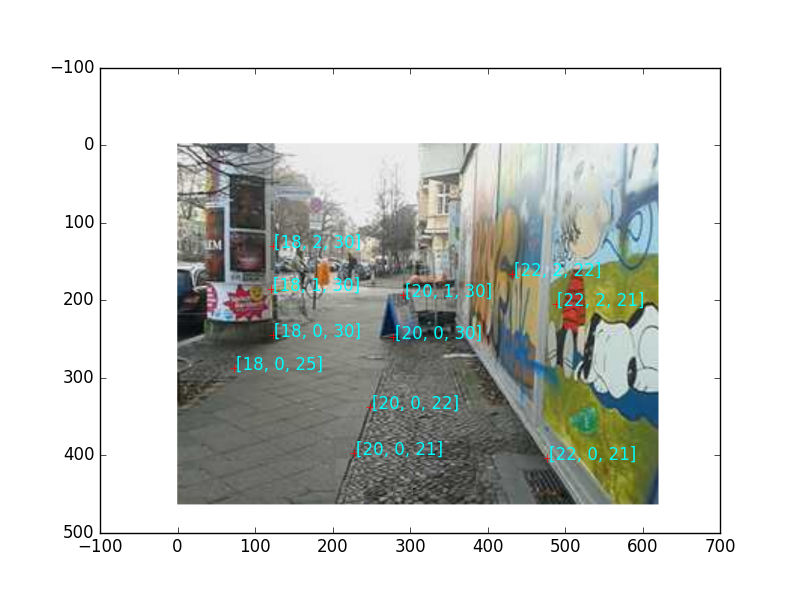
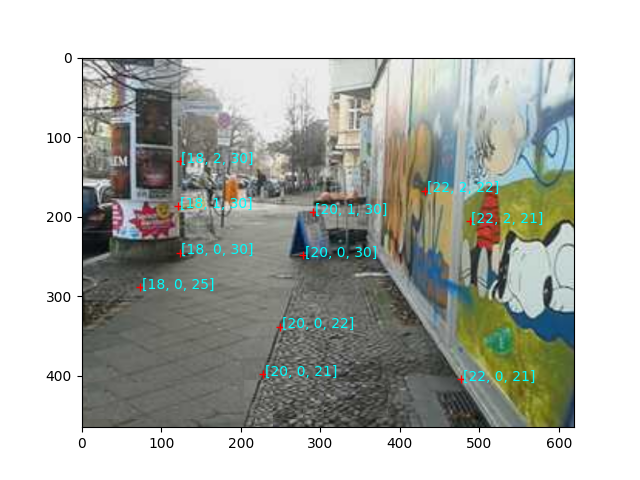
-

diff --git a/vision/vision_05p/vision_05p.html b/vision/vision_05p/vision_05p.html
@@ -239,7 +239,7 @@ class="sourceCode python"><code class="sourceCode python"><span id="cb2-1"><a hr
 <span id="cb2-11"><a href="#cb2-11" aria-hidden="true" tabindex="-1"></a>        M[<span class="dv">3</span><span class="op">*</span>i<span class="op">+</span><span class="dv">1</span>,<span class="dv">4</span>:<span class="dv">8</span>] <span class="op">=</span> X[:,i]</span>
 <span id="cb2-12"><a href="#cb2-12" aria-hidden="true" tabindex="-1"></a>        M[<span class="dv">3</span><span class="op">*</span>i<span class="op">+</span><span class="dv">2</span>,<span class="dv">8</span>:<span class="dv">12</span>] <span class="op">=</span> X[:,i]</span>
 <span id="cb2-13"><a href="#cb2-13" aria-hidden="true" tabindex="-1"></a>        M[<span class="dv">3</span><span class="op">*</span>i:<span class="dv">3</span><span class="op">*</span>i<span class="op">+</span><span class="dv">3</span>,i<span class="op">+</span><span class="dv">12</span>] <span class="op">=</span> <span class="op">-</span>x[:,i]</span>
-<span id="cb2-14"><a href="#cb2-14" aria-hidden="true" tabindex="-1"></a>    <span class="bu">print</span> M.shape</span>
+<span id="cb2-14"><a href="#cb2-14" aria-hidden="true" tabindex="-1"></a>    <span class="bu">print</span> (M.shape)</span>
 <span id="cb2-15"><a href="#cb2-15" aria-hidden="true" tabindex="-1"></a>    U,S,V <span class="op">=</span> linalg.svd(M)</span>
 <span id="cb2-16"><a href="#cb2-16" aria-hidden="true" tabindex="-1"></a>    </span>
 <span id="cb2-17"><a href="#cb2-17" aria-hidden="true" tabindex="-1"></a>    <span class="cf">return</span> V[<span class="op">-</span><span class="dv">1</span>,:<span class="dv">12</span>].reshape((<span class="dv">3</span>,<span class="dv">4</span>))</span>
@@ -253,7 +253,7 @@ class="sourceCode python"><code class="sourceCode python"><span id="cb2-1"><a hr
 <span id="cb2-25"><a href="#cb2-25" aria-hidden="true" tabindex="-1"></a>XX <span class="op">=</span> np.hstack((XX,np.ones((<span class="bu">len</span>(X),<span class="dv">1</span>))))</span>
 <span id="cb2-26"><a href="#cb2-26" aria-hidden="true" tabindex="-1"></a></span>
 <span id="cb2-27"><a href="#cb2-27" aria-hidden="true" tabindex="-1"></a>P <span class="op">=</span> compute_P(xx.T,XX.T)</span>
-<span id="cb2-28"><a href="#cb2-28" aria-hidden="true" tabindex="-1"></a><span class="bu">print</span> P</span></code></pre></div>
+<span id="cb2-28"><a href="#cb2-28" aria-hidden="true" tabindex="-1"></a><span class="bu">print</span> (P)</span></code></pre></div>
 <pre><code>(33, 23)
 [[ -4.01225744e-02   5.31972373e-03  -1.06308256e-02   9.71131258e-01]
  [ -9.79700368e-04  -2.64464969e-02  -1.09893337e-02   2.33086445e-01]
@@ -273,22 +273,18 @@ class="sourceCode python"><code class="sourceCode python"><span id="cb4-1"><a hr
 <span id="cb4-7"><a href="#cb4-7" aria-hidden="true" tabindex="-1"></a>plt.imshow(im)</span>
 <span id="cb4-8"><a href="#cb4-8" aria-hidden="true" tabindex="-1"></a></span>
 <span id="cb4-9"><a href="#cb4-9" aria-hidden="true" tabindex="-1"></a><span class="cf">for</span> xx <span class="kw">in</span> X3.T: </span>
-<span id="cb4-10"><a href="#cb4-10" aria-hidden="true" tabindex="-1"></a>    plt.hold(<span class="va">True</span>)</span>
-<span id="cb4-11"><a href="#cb4-11" aria-hidden="true" tabindex="-1"></a>    <span class="cf">if</span> xx[<span class="dv">0</span>] <span class="op">&gt;</span> w <span class="kw">or</span> xx[<span class="dv">0</span>] <span class="op">&lt;</span> <span class="dv">0</span>: <span class="cf">continue</span></span>
-<span id="cb4-12"><a href="#cb4-12" aria-hidden="true" tabindex="-1"></a>    <span class="cf">if</span> xx[<span class="dv">1</span>] <span class="op">&gt;</span> h <span class="kw">or</span> xx[<span class="dv">1</span>] <span class="op">&lt;</span> <span class="dv">0</span>: <span class="cf">continue</span></span>
-<span id="cb4-13"><a href="#cb4-13" aria-hidden="true" tabindex="-1"></a>    plt.plot(xx[<span class="dv">0</span>],h<span class="op">-</span>xx[<span class="dv">1</span>],<span class="st">&#39;r.&#39;</span>)</span>
-<span id="cb4-14"><a href="#cb4-14" aria-hidden="true" tabindex="-1"></a></span>
-<span id="cb4-15"><a href="#cb4-15" aria-hidden="true" tabindex="-1"></a>plt.hold(<span class="va">True</span>)</span>
-<span id="cb4-16"><a href="#cb4-16" aria-hidden="true" tabindex="-1"></a></span>
-<span id="cb4-17"><a href="#cb4-17" aria-hidden="true" tabindex="-1"></a>X3 <span class="op">=</span> np.dot(P, res2.T)</span>
-<span id="cb4-18"><a href="#cb4-18" aria-hidden="true" tabindex="-1"></a>X3 <span class="op">=</span> X3 <span class="op">/</span> X3[<span class="dv">2</span>]</span>
-<span id="cb4-19"><a href="#cb4-19" aria-hidden="true" tabindex="-1"></a><span class="cf">for</span> xx <span class="kw">in</span> X3.T: </span>
-<span id="cb4-20"><a href="#cb4-20" aria-hidden="true" tabindex="-1"></a>    plt.hold(<span class="va">True</span>)</span>
-<span id="cb4-21"><a href="#cb4-21" aria-hidden="true" tabindex="-1"></a>    <span class="cf">if</span> xx[<span class="dv">0</span>] <span class="op">&gt;</span> w <span class="kw">or</span> xx[<span class="dv">0</span>] <span class="op">&lt;</span> <span class="dv">0</span>: <span class="cf">continue</span></span>
-<span id="cb4-22"><a href="#cb4-22" aria-hidden="true" tabindex="-1"></a>    <span class="cf">if</span> xx[<span class="dv">1</span>] <span class="op">&gt;</span> h <span class="kw">or</span> xx[<span class="dv">1</span>] <span class="op">&lt;</span> <span class="dv">0</span>: <span class="cf">continue</span></span>
-<span id="cb4-23"><a href="#cb4-23" aria-hidden="true" tabindex="-1"></a>    plt.plot(xx[<span class="dv">0</span>],h<span class="op">-</span>xx[<span class="dv">1</span>],<span class="st">&#39;r.&#39;</span>)</span>
-<span id="cb4-24"><a href="#cb4-24" aria-hidden="true" tabindex="-1"></a></span>
-<span id="cb4-25"><a href="#cb4-25" aria-hidden="true" tabindex="-1"></a>plt.savefig(<span class="st">&#39;out-cam4.png&#39;</span>)</span></code></pre></div>
+<span id="cb4-10"><a href="#cb4-10" aria-hidden="true" tabindex="-1"></a>    <span class="cf">if</span> xx[<span class="dv">0</span>] <span class="op">&gt;</span> w <span class="kw">or</span> xx[<span class="dv">0</span>] <span class="op">&lt;</span> <span class="dv">0</span>: <span class="cf">continue</span></span>
+<span id="cb4-11"><a href="#cb4-11" aria-hidden="true" tabindex="-1"></a>    <span class="cf">if</span> xx[<span class="dv">1</span>] <span class="op">&gt;</span> h <span class="kw">or</span> xx[<span class="dv">1</span>] <span class="op">&lt;</span> <span class="dv">0</span>: <span class="cf">continue</span></span>
+<span id="cb4-12"><a href="#cb4-12" aria-hidden="true" tabindex="-1"></a>    plt.plot(xx[<span class="dv">0</span>],h<span class="op">-</span>xx[<span class="dv">1</span>],<span class="st">&#39;r.&#39;</span>)</span>
+<span id="cb4-13"><a href="#cb4-13" aria-hidden="true" tabindex="-1"></a></span>
+<span id="cb4-14"><a href="#cb4-14" aria-hidden="true" tabindex="-1"></a>X3 <span class="op">=</span> np.dot(P, res2.T)</span>
+<span id="cb4-15"><a href="#cb4-15" aria-hidden="true" tabindex="-1"></a>X3 <span class="op">=</span> X3 <span class="op">/</span> X3[<span class="dv">2</span>]</span>
+<span id="cb4-16"><a href="#cb4-16" aria-hidden="true" tabindex="-1"></a><span class="cf">for</span> xx <span class="kw">in</span> X3.T: </span>
+<span id="cb4-17"><a href="#cb4-17" aria-hidden="true" tabindex="-1"></a>    <span class="cf">if</span> xx[<span class="dv">0</span>] <span class="op">&gt;</span> w <span class="kw">or</span> xx[<span class="dv">0</span>] <span class="op">&lt;</span> <span class="dv">0</span>: <span class="cf">continue</span></span>
+<span id="cb4-18"><a href="#cb4-18" aria-hidden="true" tabindex="-1"></a>    <span class="cf">if</span> xx[<span class="dv">1</span>] <span class="op">&gt;</span> h <span class="kw">or</span> xx[<span class="dv">1</span>] <span class="op">&lt;</span> <span class="dv">0</span>: <span class="cf">continue</span></span>
+<span id="cb4-19"><a href="#cb4-19" aria-hidden="true" tabindex="-1"></a>    plt.plot(xx[<span class="dv">0</span>],h<span class="op">-</span>xx[<span class="dv">1</span>],<span class="st">&#39;r.&#39;</span>)</span>
+<span id="cb4-20"><a href="#cb4-20" aria-hidden="true" tabindex="-1"></a></span>
+<span id="cb4-21"><a href="#cb4-21" aria-hidden="true" tabindex="-1"></a>plt.savefig(<span class="st">&#39;out-cam4.png&#39;</span>)</span></code></pre></div>
 <p><img src="out-cam4.png" /></p>
 <p><span class="math inline">\(R,T\)</span> Hesabı</p>
 <p>Bilinen <span class="math inline">\(P\)</span> ve <span
@@ -351,9 +347,9 @@ class="sourceCode python"><code class="sourceCode python"><span id="cb5-1"><a hr
 <span id="cb5-4"><a href="#cb5-4" aria-hidden="true" tabindex="-1"></a>K <span class="op">=</span> np.dot(K,T)</span>
 <span id="cb5-5"><a href="#cb5-5" aria-hidden="true" tabindex="-1"></a>R <span class="op">=</span> np.dot(T,R) </span>
 <span id="cb5-6"><a href="#cb5-6" aria-hidden="true" tabindex="-1"></a>t <span class="op">=</span> np.dot(linalg.inv(K),P[:,<span class="dv">3</span>])</span>
-<span id="cb5-7"><a href="#cb5-7" aria-hidden="true" tabindex="-1"></a><span class="bu">print</span> K</span>
-<span id="cb5-8"><a href="#cb5-8" aria-hidden="true" tabindex="-1"></a><span class="bu">print</span> R</span>
-<span id="cb5-9"><a href="#cb5-9" aria-hidden="true" tabindex="-1"></a><span class="bu">print</span> t</span></code></pre></div>
+<span id="cb5-7"><a href="#cb5-7" aria-hidden="true" tabindex="-1"></a><span class="bu">print</span> (K)</span>
+<span id="cb5-8"><a href="#cb5-8" aria-hidden="true" tabindex="-1"></a><span class="bu">print</span> (R)</span>
+<span id="cb5-9"><a href="#cb5-9" aria-hidden="true" tabindex="-1"></a><span class="bu">print</span> (t)</span></code></pre></div>
 <pre><code>[[  2.99407581e-02   5.97285792e-03   2.86183659e-02]
  [  0.00000000e+00  -2.79384510e-02   6.37066885e-03]
  [  0.00000000e+00   0.00000000e+00   3.89309986e-05]]

diff --git a/vision/vision_05p/yansitma_matrisini_bilinen_3d2d_eslemelerinden_hesaplamak.html b/vision/vision_05p/yansitma_matrisini_bilinen_3d2d_eslemelerinden_hesaplamak.html
@@ -239,7 +239,7 @@ class="sourceCode python"><code class="sourceCode python"><span id="cb2-1"><a hr
 <span id="cb2-11"><a href="#cb2-11" aria-hidden="true" tabindex="-1"></a>        M[<span class="dv">3</span><span class="op">*</span>i<span class="op">+</span><span class="dv">1</span>,<span class="dv">4</span>:<span class="dv">8</span>] <span class="op">=</span> X[:,i]</span>
 <span id="cb2-12"><a href="#cb2-12" aria-hidden="true" tabindex="-1"></a>        M[<span class="dv">3</span><span class="op">*</span>i<span class="op">+</span><span class="dv">2</span>,<span class="dv">8</span>:<span class="dv">12</span>] <span class="op">=</span> X[:,i]</span>
 <span id="cb2-13"><a href="#cb2-13" aria-hidden="true" tabindex="-1"></a>        M[<span class="dv">3</span><span class="op">*</span>i:<span class="dv">3</span><span class="op">*</span>i<span class="op">+</span><span class="dv">3</span>,i<span class="op">+</span><span class="dv">12</span>] <span class="op">=</span> <span class="op">-</span>x[:,i]</span>
-<span id="cb2-14"><a href="#cb2-14" aria-hidden="true" tabindex="-1"></a>    <span class="bu">print</span> M.shape</span>
+<span id="cb2-14"><a href="#cb2-14" aria-hidden="true" tabindex="-1"></a>    <span class="bu">print</span> (M.shape)</span>
 <span id="cb2-15"><a href="#cb2-15" aria-hidden="true" tabindex="-1"></a>    U,S,V <span class="op">=</span> linalg.svd(M)</span>
 <span id="cb2-16"><a href="#cb2-16" aria-hidden="true" tabindex="-1"></a>    </span>
 <span id="cb2-17"><a href="#cb2-17" aria-hidden="true" tabindex="-1"></a>    <span class="cf">return</span> V[<span class="op">-</span><span class="dv">1</span>,:<span class="dv">12</span>].reshape((<span class="dv">3</span>,<span class="dv">4</span>))</span>
@@ -253,7 +253,7 @@ class="sourceCode python"><code class="sourceCode python"><span id="cb2-1"><a hr
 <span id="cb2-25"><a href="#cb2-25" aria-hidden="true" tabindex="-1"></a>XX <span class="op">=</span> np.hstack((XX,np.ones((<span class="bu">len</span>(X),<span class="dv">1</span>))))</span>
 <span id="cb2-26"><a href="#cb2-26" aria-hidden="true" tabindex="-1"></a></span>
 <span id="cb2-27"><a href="#cb2-27" aria-hidden="true" tabindex="-1"></a>P <span class="op">=</span> compute_P(xx.T,XX.T)</span>
-<span id="cb2-28"><a href="#cb2-28" aria-hidden="true" tabindex="-1"></a><span class="bu">print</span> P</span></code></pre></div>
+<span id="cb2-28"><a href="#cb2-28" aria-hidden="true" tabindex="-1"></a><span class="bu">print</span> (P)</span></code></pre></div>
 <pre><code>(33, 23)
 [[ -4.01225744e-02   5.31972373e-03  -1.06308256e-02   9.71131258e-01]
  [ -9.79700368e-04  -2.64464969e-02  -1.09893337e-02   2.33086445e-01]
@@ -273,22 +273,18 @@ class="sourceCode python"><code class="sourceCode python"><span id="cb4-1"><a hr
 <span id="cb4-7"><a href="#cb4-7" aria-hidden="true" tabindex="-1"></a>plt.imshow(im)</span>
 <span id="cb4-8"><a href="#cb4-8" aria-hidden="true" tabindex="-1"></a></span>
 <span id="cb4-9"><a href="#cb4-9" aria-hidden="true" tabindex="-1"></a><span class="cf">for</span> xx <span class="kw">in</span> X3.T: </span>
-<span id="cb4-10"><a href="#cb4-10" aria-hidden="true" tabindex="-1"></a>    plt.hold(<span class="va">True</span>)</span>
-<span id="cb4-11"><a href="#cb4-11" aria-hidden="true" tabindex="-1"></a>    <span class="cf">if</span> xx[<span class="dv">0</span>] <span class="op">&gt;</span> w <span class="kw">or</span> xx[<span class="dv">0</span>] <span class="op">&lt;</span> <span class="dv">0</span>: <span class="cf">continue</span></span>
-<span id="cb4-12"><a href="#cb4-12" aria-hidden="true" tabindex="-1"></a>    <span class="cf">if</span> xx[<span class="dv">1</span>] <span class="op">&gt;</span> h <span class="kw">or</span> xx[<span class="dv">1</span>] <span class="op">&lt;</span> <span class="dv">0</span>: <span class="cf">continue</span></span>
-<span id="cb4-13"><a href="#cb4-13" aria-hidden="true" tabindex="-1"></a>    plt.plot(xx[<span class="dv">0</span>],h<span class="op">-</span>xx[<span class="dv">1</span>],<span class="st">&#39;r.&#39;</span>)</span>
-<span id="cb4-14"><a href="#cb4-14" aria-hidden="true" tabindex="-1"></a></span>
-<span id="cb4-15"><a href="#cb4-15" aria-hidden="true" tabindex="-1"></a>plt.hold(<span class="va">True</span>)</span>
-<span id="cb4-16"><a href="#cb4-16" aria-hidden="true" tabindex="-1"></a></span>
-<span id="cb4-17"><a href="#cb4-17" aria-hidden="true" tabindex="-1"></a>X3 <span class="op">=</span> np.dot(P, res2.T)</span>
-<span id="cb4-18"><a href="#cb4-18" aria-hidden="true" tabindex="-1"></a>X3 <span class="op">=</span> X3 <span class="op">/</span> X3[<span class="dv">2</span>]</span>
-<span id="cb4-19"><a href="#cb4-19" aria-hidden="true" tabindex="-1"></a><span class="cf">for</span> xx <span class="kw">in</span> X3.T: </span>
-<span id="cb4-20"><a href="#cb4-20" aria-hidden="true" tabindex="-1"></a>    plt.hold(<span class="va">True</span>)</span>
-<span id="cb4-21"><a href="#cb4-21" aria-hidden="true" tabindex="-1"></a>    <span class="cf">if</span> xx[<span class="dv">0</span>] <span class="op">&gt;</span> w <span class="kw">or</span> xx[<span class="dv">0</span>] <span class="op">&lt;</span> <span class="dv">0</span>: <span class="cf">continue</span></span>
-<span id="cb4-22"><a href="#cb4-22" aria-hidden="true" tabindex="-1"></a>    <span class="cf">if</span> xx[<span class="dv">1</span>] <span class="op">&gt;</span> h <span class="kw">or</span> xx[<span class="dv">1</span>] <span class="op">&lt;</span> <span class="dv">0</span>: <span class="cf">continue</span></span>
-<span id="cb4-23"><a href="#cb4-23" aria-hidden="true" tabindex="-1"></a>    plt.plot(xx[<span class="dv">0</span>],h<span class="op">-</span>xx[<span class="dv">1</span>],<span class="st">&#39;r.&#39;</span>)</span>
-<span id="cb4-24"><a href="#cb4-24" aria-hidden="true" tabindex="-1"></a></span>
-<span id="cb4-25"><a href="#cb4-25" aria-hidden="true" tabindex="-1"></a>plt.savefig(<span class="st">&#39;out-cam4.png&#39;</span>)</span></code></pre></div>
+<span id="cb4-10"><a href="#cb4-10" aria-hidden="true" tabindex="-1"></a>    <span class="cf">if</span> xx[<span class="dv">0</span>] <span class="op">&gt;</span> w <span class="kw">or</span> xx[<span class="dv">0</span>] <span class="op">&lt;</span> <span class="dv">0</span>: <span class="cf">continue</span></span>
+<span id="cb4-11"><a href="#cb4-11" aria-hidden="true" tabindex="-1"></a>    <span class="cf">if</span> xx[<span class="dv">1</span>] <span class="op">&gt;</span> h <span class="kw">or</span> xx[<span class="dv">1</span>] <span class="op">&lt;</span> <span class="dv">0</span>: <span class="cf">continue</span></span>
+<span id="cb4-12"><a href="#cb4-12" aria-hidden="true" tabindex="-1"></a>    plt.plot(xx[<span class="dv">0</span>],h<span class="op">-</span>xx[<span class="dv">1</span>],<span class="st">&#39;r.&#39;</span>)</span>
+<span id="cb4-13"><a href="#cb4-13" aria-hidden="true" tabindex="-1"></a></span>
+<span id="cb4-14"><a href="#cb4-14" aria-hidden="true" tabindex="-1"></a>X3 <span class="op">=</span> np.dot(P, res2.T)</span>
+<span id="cb4-15"><a href="#cb4-15" aria-hidden="true" tabindex="-1"></a>X3 <span class="op">=</span> X3 <span class="op">/</span> X3[<span class="dv">2</span>]</span>
+<span id="cb4-16"><a href="#cb4-16" aria-hidden="true" tabindex="-1"></a><span class="cf">for</span> xx <span class="kw">in</span> X3.T: </span>
+<span id="cb4-17"><a href="#cb4-17" aria-hidden="true" tabindex="-1"></a>    <span class="cf">if</span> xx[<span class="dv">0</span>] <span class="op">&gt;</span> w <span class="kw">or</span> xx[<span class="dv">0</span>] <span class="op">&lt;</span> <span class="dv">0</span>: <span class="cf">continue</span></span>
+<span id="cb4-18"><a href="#cb4-18" aria-hidden="true" tabindex="-1"></a>    <span class="cf">if</span> xx[<span class="dv">1</span>] <span class="op">&gt;</span> h <span class="kw">or</span> xx[<span class="dv">1</span>] <span class="op">&lt;</span> <span class="dv">0</span>: <span class="cf">continue</span></span>
+<span id="cb4-19"><a href="#cb4-19" aria-hidden="true" tabindex="-1"></a>    plt.plot(xx[<span class="dv">0</span>],h<span class="op">-</span>xx[<span class="dv">1</span>],<span class="st">&#39;r.&#39;</span>)</span>
+<span id="cb4-20"><a href="#cb4-20" aria-hidden="true" tabindex="-1"></a></span>
+<span id="cb4-21"><a href="#cb4-21" aria-hidden="true" tabindex="-1"></a>plt.savefig(<span class="st">&#39;out-cam4.png&#39;</span>)</span></code></pre></div>
 <p><img src="out-cam4.png" /></p>
 <p><span class="math inline">\(R,T\)</span> Hesabı</p>
 <p>Bilinen <span class="math inline">\(P\)</span> ve <span
@@ -351,9 +347,9 @@ class="sourceCode python"><code class="sourceCode python"><span id="cb5-1"><a hr
 <span id="cb5-4"><a href="#cb5-4" aria-hidden="true" tabindex="-1"></a>K <span class="op">=</span> np.dot(K,T)</span>
 <span id="cb5-5"><a href="#cb5-5" aria-hidden="true" tabindex="-1"></a>R <span class="op">=</span> np.dot(T,R) </span>
 <span id="cb5-6"><a href="#cb5-6" aria-hidden="true" tabindex="-1"></a>t <span class="op">=</span> np.dot(linalg.inv(K),P[:,<span class="dv">3</span>])</span>
-<span id="cb5-7"><a href="#cb5-7" aria-hidden="true" tabindex="-1"></a><span class="bu">print</span> K</span>
-<span id="cb5-8"><a href="#cb5-8" aria-hidden="true" tabindex="-1"></a><span class="bu">print</span> R</span>
-<span id="cb5-9"><a href="#cb5-9" aria-hidden="true" tabindex="-1"></a><span class="bu">print</span> t</span></code></pre></div>
+<span id="cb5-7"><a href="#cb5-7" aria-hidden="true" tabindex="-1"></a><span class="bu">print</span> (K)</span>
+<span id="cb5-8"><a href="#cb5-8" aria-hidden="true" tabindex="-1"></a><span class="bu">print</span> (R)</span>
+<span id="cb5-9"><a href="#cb5-9" aria-hidden="true" tabindex="-1"></a><span class="bu">print</span> (t)</span></code></pre></div>
 <pre><code>[[  2.99407581e-02   5.97285792e-03   2.86183659e-02]
  [  0.00000000e+00  -2.79384510e-02   6.37066885e-03]
  [  0.00000000e+00   0.00000000e+00   3.89309986e-05]]
